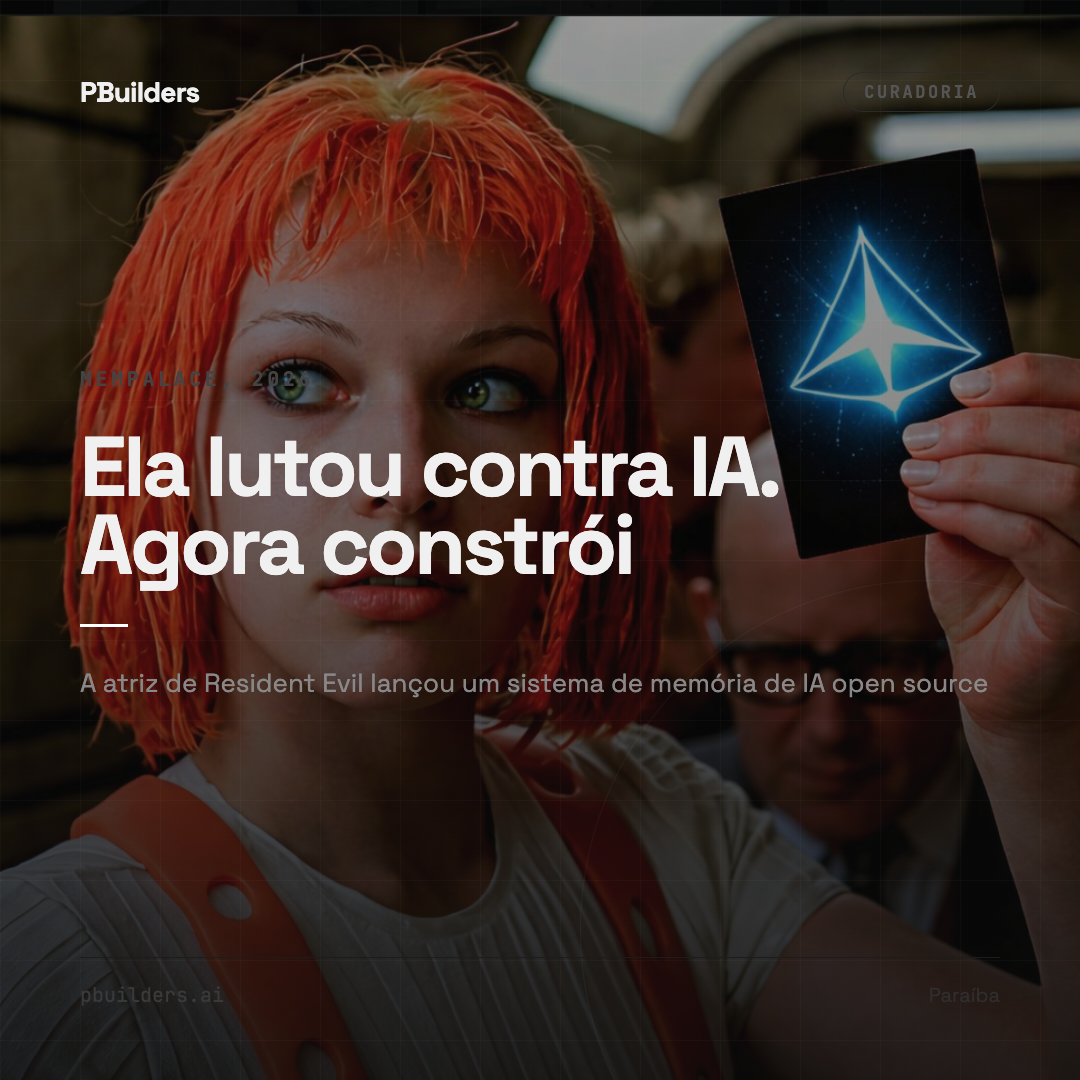
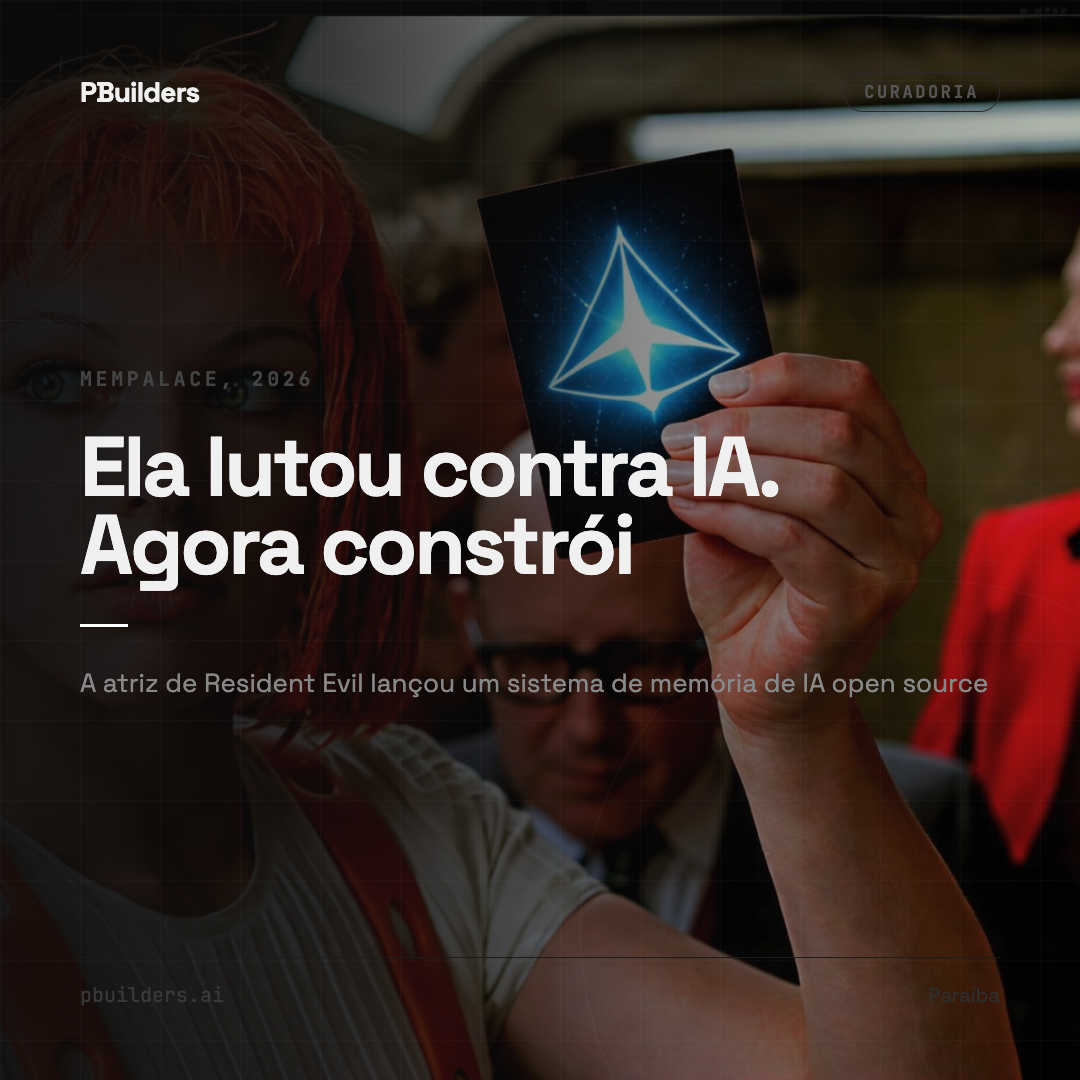
MemPalace: reposicionar foto — Milla à direita, gradiente horizontal

diff --git a/content/2026-04-08-mempalace/whatsapp-cover.html b/content/2026-04-08-mempalace/whatsapp-cover.html
@@ -22,12 +22,12 @@
       width: 1080px;
       height: 1080px;
       background:
-        linear-gradient(to bottom,
-          rgba(10,10,10,0.38) 0%,
-          rgba(10,10,10,0.48) 50%,
-          rgba(10,10,10,0.72) 80%,
-          rgba(10,10,10,0.85) 100%),
-        url('milla.png') center/cover no-repeat;
+        linear-gradient(to right,
+          rgba(10,10,10,0.92) 0%,
+          rgba(10,10,10,0.80) 30%,
+          rgba(10,10,10,0.45) 60%,
+          rgba(10,10,10,0.18) 100%),
+        url('milla.png') right center/cover no-repeat;
       position: relative;
       overflow: hidden;
       display: flex;

diff --git a/content/2026-04-08-mempalace/instagram-carousel.html b/content/2026-04-08-mempalace/instagram-carousel.html
@@ -129,12 +129,12 @@
     /* ── SLIDE 1 — HOOK (foto background) ── */
     #s1 {
       background:
-        linear-gradient(to bottom,
-          rgba(10,10,10,0.40) 0%,
-          rgba(10,10,10,0.45) 50%,
-          rgba(10,10,10,0.72) 80%,
-          rgba(10,10,10,0.85) 100%),
-        url('milla.png') center/cover no-repeat;
+        linear-gradient(to right,
+          rgba(10,10,10,0.92) 0%,
+          rgba(10,10,10,0.85) 35%,
+          rgba(10,10,10,0.50) 60%,
+          rgba(10,10,10,0.20) 100%),
+        url('milla.png') right center/cover no-repeat;
     }
 
     #s1 .eyebrow {
